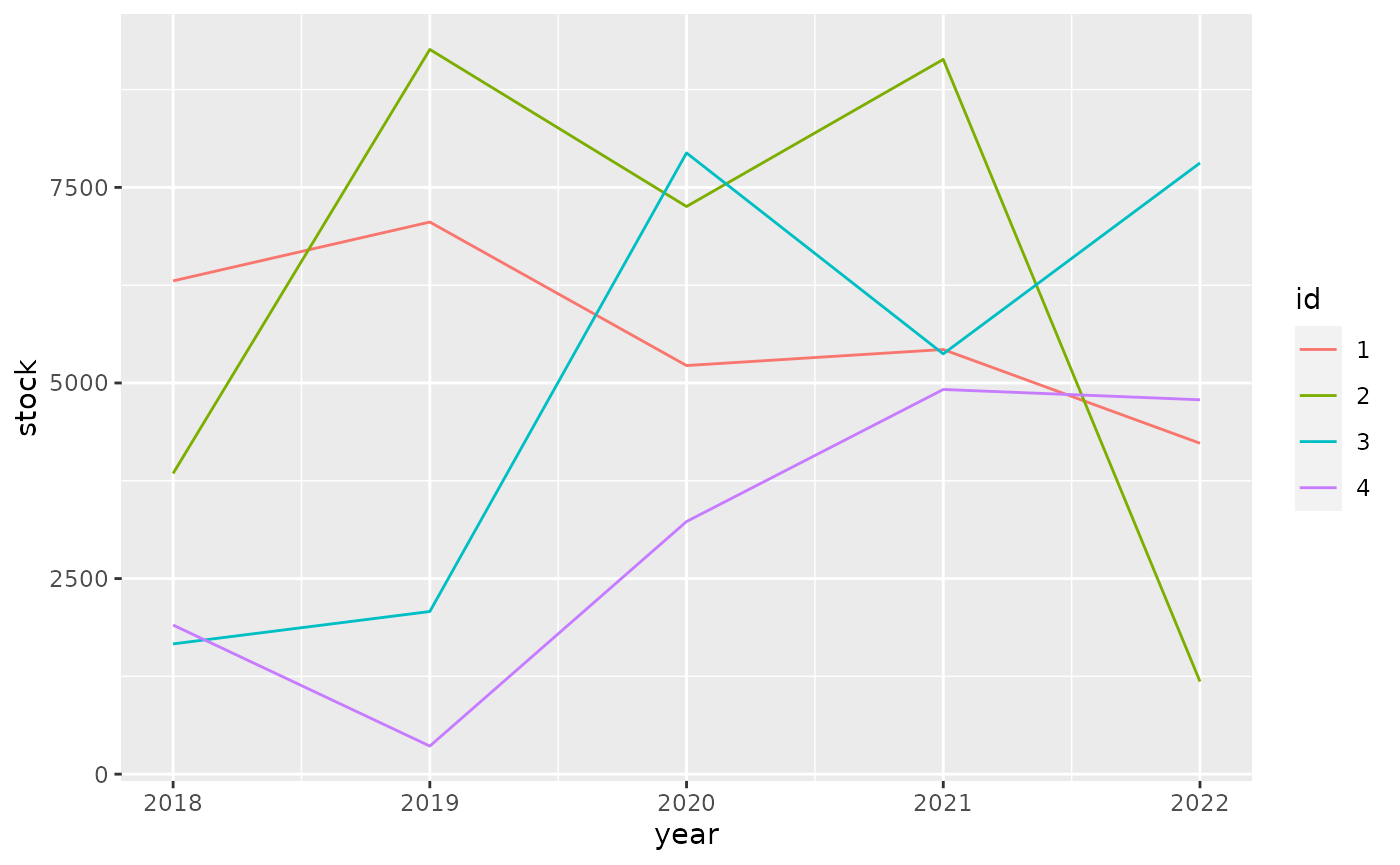
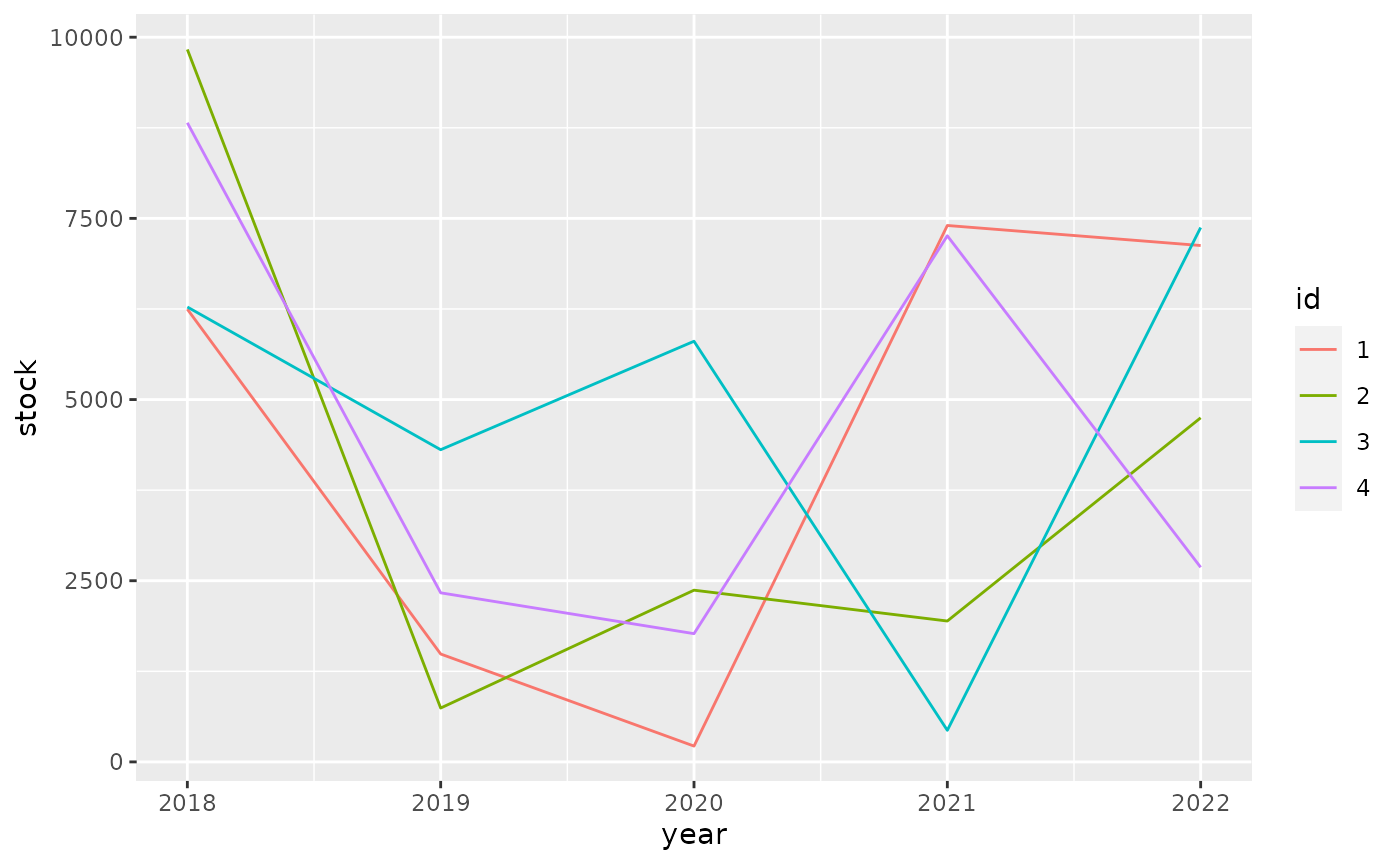
Built site for tibble: 3.1.3.9000@2be6af2

diff --git a/dev/articles/formats.html b/dev/articles/formats.html
@@ -55,7 +55,7 @@
         <a class="navbar-brand" href="../index.html">tibble</a>
         <div class="info hidden-xs hidden-sm">
           <span class="partof">part of the <a href="https://tidyverse.org" class="external-link">tidyverse</a></span>
-          <span class="version version-danger" data-toggle="tooltip" data-placement="bottom" title="In-development version">3.1.2.9002</span>
+          <span class="version version-danger" data-toggle="tooltip" data-placement="bottom" title="In-development version">3.1.3.9000</span>
         </div>
       </div>
     </div>
@@ -224,10 +224,10 @@
 <span class="co">#&gt; # A tibble: 4 × 6</span>
 <span class="co">#&gt;   id       `2018`    `2019`    `2020`    `2021`    `2022`</span>
 <span class="co">#&gt;   &lt;fct&gt; &lt;dbl:fmt&gt; &lt;dbl:fmt&gt; &lt;dbl:fmt&gt; &lt;dbl:fmt&gt; &lt;dbl:fmt&gt;</span>
-<span class="co">#&gt; 1 1     $6,304.90 $7,056.95 $5,222.79 $5,427.82 $4,229.85</span>
-<span class="co">#&gt; 2 2     $3,843.56 $9,263.42 $7,255.96 $9,136.01 $1,183.34</span>
-<span class="co">#&gt; 3 3     $1,664.86 $2,078.82 $7,940.51 $5,371.85 $7,812.16</span>
-<span class="co">#&gt; 4 4     $1,905.68   $358.71 $3,228.98 $4,916.98 $4,785.27</span></code></pre></div>
+<span class="co">#&gt; 1 1     $6,247.09 $1,488.78   $218.31 $7,402.00 $7,125.40</span>
+<span class="co">#&gt; 2 2     $9,831.21   $743.27 $2,369.58 $1,943.92 $4,748.10</span>
+<span class="co">#&gt; 3 3     $6,277.19 $4,307.85 $5,804.56   $435.84 $7,373.60</span>
+<span class="co">#&gt; 4 4     $8,819.39 $2,333.17 $1,769.60 $7,259.88 $2,685.13</span></code></pre></div>
 <p>For ggplot2 we need to do <a href="https://github.com/tidyverse/ggplot2/pull/4065" class="external-link">some work</a> to show apply the formatting to the scales.</p>
 <div class="sourceCode" id="cb6"><pre class="downlit sourceCode r">
 <code class="sourceCode R"><span class="kw"><a href="https://rdrr.io/r/base/library.html" class="external-link">library</a></span><span class="op">(</span><span class="va"><a href="https://ggplot2.tidyverse.org" class="external-link">ggplot2</a></span><span class="op">)</span>
@@ -238,10 +238,10 @@
   <span class="fu"><a href="https://ggplot2.tidyverse.org/reference/geom_path.html" class="external-link">geom_line</a></span><span class="op">(</span><span class="op">)</span></code></pre></div>
 <p><img src="formats_files/figure-html/unnamed-chunk-7-1.png" width="700"></p>
 <p>It pays off to specify formatting very early in the process. The diagram below shows the principal stages of data analysis and exploration from “R for data science”.</p>
-<div id="htmlwidget-e83d5dcab05e91ad24c7" style="width:700px;height:432.632880098888px;" class="DiagrammeR html-widget"></div>
-<script type="application/json" data-for="htmlwidget-e83d5dcab05e91ad24c7">{"x":{"diagram":"graph TD\n  Import --> Tidy\n  Tidy --> Transform\n  Transform --> Visualize\n  Visualize --> Communicate\n  Visualize --> Model\n  Model -.-> Transform"},"evals":[],"jsHooks":[]}</script><p>The subsequent diagram adds data formats, communication options, and explicit data formatting. The original r4ds transitions are highlighted in bold. There are two principal options where to apply formatting for results: right before communicating them, or right after importing.</p>
-<div id="htmlwidget-f6371f9bbd9bffab3a48" style="width:700px;height:432.632880098888px;" class="DiagrammeR html-widget"></div>
-<script type="application/json" data-for="htmlwidget-f6371f9bbd9bffab3a48">{"x":{"diagram":"graph TD\n  .csv --> Import\n  API --> Import\n  DBI --> Import\n  dbplyr --> Import\n  Import -.-> Format[Format for analysis]\n  Format -.-> Tidy\n\n  subgraph r4ds\n  Import ==> Tidy\n  Tidy ==> Transform\n  Transform ==> Visualize\n  Visualize ==> Model\n  Model -.-> Transform\n  Visualize ==> Communicate\n  end\n\n  Visualize -.-> FormatComm[Format for communication]\n  FormatComm -.-> Communicate\n\n  FormatComm -- Apply formatting early --> Format\n\n  dbplyr -.-> Tidy\n  dbplyr -.-> Transform\n  dbplyr -.-> Visualize\n\n  Communicate --> gt\n  Communicate --> ggplot2\n  Communicate --> DT\n  Communicate --> plotly"},"evals":[],"jsHooks":[]}</script><p>Applying formatting early in the process gives the added benefit of showing the data in a useful format during the “Tidy”, “Transform”, and “Visualize” stages. For this to be useful, we need to ensure that the formatting options applied early:</p>
+<div id="htmlwidget-e8ee39ddd36e2798e0b9" style="width:700px;height:432.632880098888px;" class="DiagrammeR html-widget"></div>
+<script type="application/json" data-for="htmlwidget-e8ee39ddd36e2798e0b9">{"x":{"diagram":"graph TD\n  Import --> Tidy\n  Tidy --> Transform\n  Transform --> Visualize\n  Visualize --> Communicate\n  Visualize --> Model\n  Model -.-> Transform"},"evals":[],"jsHooks":[]}</script><p>The subsequent diagram adds data formats, communication options, and explicit data formatting. The original r4ds transitions are highlighted in bold. There are two principal options where to apply formatting for results: right before communicating them, or right after importing.</p>
+<div id="htmlwidget-c152440d3324baf9c505" style="width:700px;height:432.632880098888px;" class="DiagrammeR html-widget"></div>
+<script type="application/json" data-for="htmlwidget-c152440d3324baf9c505">{"x":{"diagram":"graph TD\n  .csv --> Import\n  API --> Import\n  DBI --> Import\n  dbplyr --> Import\n  Import -.-> Format[Format for analysis]\n  Format -.-> Tidy\n\n  subgraph r4ds\n  Import ==> Tidy\n  Tidy ==> Transform\n  Transform ==> Visualize\n  Visualize ==> Model\n  Model -.-> Transform\n  Visualize ==> Communicate\n  end\n\n  Visualize -.-> FormatComm[Format for communication]\n  FormatComm -.-> Communicate\n\n  FormatComm -- Apply formatting early --> Format\n\n  dbplyr -.-> Tidy\n  dbplyr -.-> Transform\n  dbplyr -.-> Visualize\n\n  Communicate --> gt\n  Communicate --> ggplot2\n  Communicate --> DT\n  Communicate --> plotly"},"evals":[],"jsHooks":[]}</script><p>Applying formatting early in the process gives the added benefit of showing the data in a useful format during the “Tidy”, “Transform”, and “Visualize” stages. For this to be useful, we need to ensure that the formatting options applied early:</p>
 <ul>
 <li>give a good user experience for analysis
 <ul>

diff --git a/dev/news/index.html b/dev/news/index.html
@@ -106,7 +106,7 @@
         <a class="navbar-brand" href="../index.html">tibble</a>
         <div class="info hidden-xs hidden-sm">
           <span class="partof">part of the <a href="https://tidyverse.org">tidyverse</a></span>
-          <span class="version version-danger" data-toggle="tooltip" data-placement="bottom" title="In-development version">3.1.2.9002</span>
+          <span class="version version-danger" data-toggle="tooltip" data-placement="bottom" title="In-development version">3.1.3.9000</span>
         </div>
       </div>
     </div>
@@ -193,6 +193,16 @@
       <small>Source: <a href='https://github.com/tidyverse/tibble/blob/master/NEWS.md'><code>NEWS.md</code></a></small>
     </div>
 
+    <div id="tibble-3139000" class="section level1">
+<h1 class="page-header" data-toc-text="3.1.3.9000">
+<a href="#tibble-3139000" class="anchor" aria-hidden="true"></a>tibble 3.1.3.9000<small> Unreleased </small></h1>
+<ul><li>Same as previous version.</li>
+</ul></div>
+    <div id="tibble-313" class="section level1">
+<h1 class="page-header" data-toc-text="3.1.3">
+<a href="#tibble-313" class="anchor" aria-hidden="true"></a>tibble 3.1.3<small> Unreleased </small></h1>
+<ul><li>Same as previous version.</li>
+</ul></div>
     <div id="tibble-3129002" class="section level1">
 <h1 class="page-header" data-toc-text="3.1.2.9002">
 <a href="#tibble-3129002" class="anchor" aria-hidden="true"></a>tibble 3.1.2.9002<small> Unreleased </small></h1>

diff --git a/dev/articles/types.html b/dev/articles/types.html
@@ -55,7 +55,7 @@
         <a class="navbar-brand" href="../index.html">tibble</a>
         <div class="info hidden-xs hidden-sm">
           <span class="partof">part of the <a href="https://tidyverse.org" class="external-link">tidyverse</a></span>
-          <span class="version version-danger" data-toggle="tooltip" data-placement="bottom" title="In-development version">3.1.2.9002</span>
+          <span class="version version-danger" data-toggle="tooltip" data-placement="bottom" title="In-development version">3.1.3.9000</span>
         </div>
       </div>
     </div>
@@ -357,7 +357,7 @@
 #&gt; $ factor        &lt;fct&gt; A
 #&gt; $ ordered       &lt;ord&gt; a
 #&gt; $ Date          &lt;date&gt; 2021-07-21
-#&gt; $ POSIXt        &lt;dttm&gt; 2021-07-21 11:52:07
+#&gt; $ POSIXt        &lt;dttm&gt; 2021-07-21 12:00:01
 #&gt; $ difftime      &lt;drtn&gt; 1 secs
 #&gt; $ hms           &lt;time&gt; 00:00:01
 #&gt; $ integer64     &lt;int64&gt; 10000000000
@@ -393,7 +393,7 @@
 <span class="co">#&gt;             "sym"</span>
 <span class="co">#&gt;         }, typeof(x))</span>
 <span class="co">#&gt; }</span>
-<span class="co">#&gt; &lt;bytecode: 0x55e6be4459c0&gt;</span>
+<span class="co">#&gt; &lt;bytecode: 0x55d97dfd4c20&gt;</span>
 <span class="co">#&gt; &lt;environment: namespace:pillar&gt;</span></code></pre></div>
 </div>
   </div>

diff --git a/dev/reference/formatting.html b/dev/reference/formatting.html
@@ -122,7 +122,7 @@ See vignette(&quot;extending&quot;, package = &quot;pillar&quot;) for details." 
         <a class="navbar-brand" href="../index.html">tibble</a>
         <div class="info hidden-xs hidden-sm">
           <span class="partof">part of the <a href="https://tidyverse.org">tidyverse</a></span>
-          <span class="version version-danger" data-toggle="tooltip" data-placement="bottom" title="In-development version">3.1.2.9002</span>
+          <span class="version version-danger" data-toggle="tooltip" data-placement="bottom" title="In-development version">3.1.3.9000</span>
         </div>
       </div>
     </div>

diff --git a/dev/reference/trunc_mat.html b/dev/reference/trunc_mat.html
@@ -112,7 +112,7 @@ See vignette(&quot;extending&quot;, package = &quot;pillar&quot;) for details." 
         <a class="navbar-brand" href="../index.html">tibble</a>
         <div class="info hidden-xs hidden-sm">
           <span class="partof">part of the <a href="https://tidyverse.org">tidyverse</a></span>
-          <span class="version version-danger" data-toggle="tooltip" data-placement="bottom" title="In-development version">3.1.2.9002</span>
+          <span class="version version-danger" data-toggle="tooltip" data-placement="bottom" title="In-development version">3.1.3.9000</span>
         </div>
       </div>
     </div>

diff --git a/dev/reference/name-repair-superseded.html b/dev/reference/name-repair-superseded.html
@@ -113,7 +113,7 @@ See vctrs::vec_as_names() for the implementation of the underlying logic." />
         <a class="navbar-brand" href="../index.html">tibble</a>
         <div class="info hidden-xs hidden-sm">
           <span class="partof">part of the <a href="https://tidyverse.org">tidyverse</a></span>
-          <span class="version version-danger" data-toggle="tooltip" data-placement="bottom" title="In-development version">3.1.2.9002</span>
+          <span class="version version-danger" data-toggle="tooltip" data-placement="bottom" title="In-development version">3.1.3.9000</span>
         </div>
       </div>
     </div>

diff --git a/dev/reference/tribble.html b/dev/reference/tribble.html
@@ -109,7 +109,7 @@ important.  Please see tibble-package for a general introduction." />
         <a class="navbar-brand" href="../index.html">tibble</a>
         <div class="info hidden-xs hidden-sm">
           <span class="partof">part of the <a href="https://tidyverse.org">tidyverse</a></span>
-          <span class="version version-danger" data-toggle="tooltip" data-placement="bottom" title="In-development version">3.1.2.9002</span>
+          <span class="version version-danger" data-toggle="tooltip" data-placement="bottom" title="In-development version">3.1.3.9000</span>
         </div>
       </div>
     </div>

diff --git a/dev/reference/enframe.html b/dev/reference/enframe.html
@@ -113,7 +113,7 @@ If the input has only one column, an unnamed vector is returned." />
         <a class="navbar-brand" href="../index.html">tibble</a>
         <div class="info hidden-xs hidden-sm">
           <span class="partof">part of the <a href="https://tidyverse.org">tidyverse</a></span>
-          <span class="version version-danger" data-toggle="tooltip" data-placement="bottom" title="In-development version">3.1.2.9002</span>
+          <span class="version version-danger" data-toggle="tooltip" data-placement="bottom" title="In-development version">3.1.3.9000</span>
         </div>
       </div>
     </div>

diff --git a/dev/reference/subsetting.html b/dev/reference/subsetting.html
@@ -126,7 +126,7 @@ data frame behavior, coerce to a data frame via as.data.frame()." />
         <a class="navbar-brand" href="../index.html">tibble</a>
         <div class="info hidden-xs hidden-sm">
           <span class="partof">part of the <a href="https://tidyverse.org">tidyverse</a></span>
-          <span class="version version-danger" data-toggle="tooltip" data-placement="bottom" title="In-development version">3.1.2.9002</span>
+          <span class="version version-danger" data-toggle="tooltip" data-placement="bottom" title="In-development version">3.1.3.9000</span>
         </div>
       </div>
     </div>

diff --git a/dev/reference/is_tibble.html b/dev/reference/is_tibble.html
@@ -108,7 +108,7 @@ and FALSE for all other objects, including regular data frames." />
         <a class="navbar-brand" href="../index.html">tibble</a>
         <div class="info hidden-xs hidden-sm">
           <span class="partof">part of the <a href="https://tidyverse.org">tidyverse</a></span>
-          <span class="version version-danger" data-toggle="tooltip" data-placement="bottom" title="In-development version">3.1.2.9002</span>
+          <span class="version version-danger" data-toggle="tooltip" data-placement="bottom" title="In-development version">3.1.3.9000</span>
         </div>
       </div>
     </div>

diff --git a/dev/reference/as_tibble.html b/dev/reference/as_tibble.html
@@ -122,7 +122,7 @@ as_tibble_col() converts a vector to a tibble with one column." />
         <a class="navbar-brand" href="../index.html">tibble</a>
         <div class="info hidden-xs hidden-sm">
           <span class="partof">part of the <a href="https://tidyverse.org">tidyverse</a></span>
-          <span class="version version-danger" data-toggle="tooltip" data-placement="bottom" title="In-development version">3.1.2.9002</span>
+          <span class="version version-danger" data-toggle="tooltip" data-placement="bottom" title="In-development version">3.1.3.9000</span>
         </div>
       </div>
     </div>

diff --git a/dev/reference/view.html b/dev/reference/view.html
@@ -112,7 +112,7 @@ This function has no effect in noninteractive sessions." />
         <a class="navbar-brand" href="../index.html">tibble</a>
         <div class="info hidden-xs hidden-sm">
           <span class="partof">part of the <a href="https://tidyverse.org">tidyverse</a></span>
-          <span class="version version-danger" data-toggle="tooltip" data-placement="bottom" title="In-development version">3.1.2.9002</span>
+          <span class="version version-danger" data-toggle="tooltip" data-placement="bottom" title="In-development version">3.1.3.9000</span>
         </div>
       </div>
     </div>
